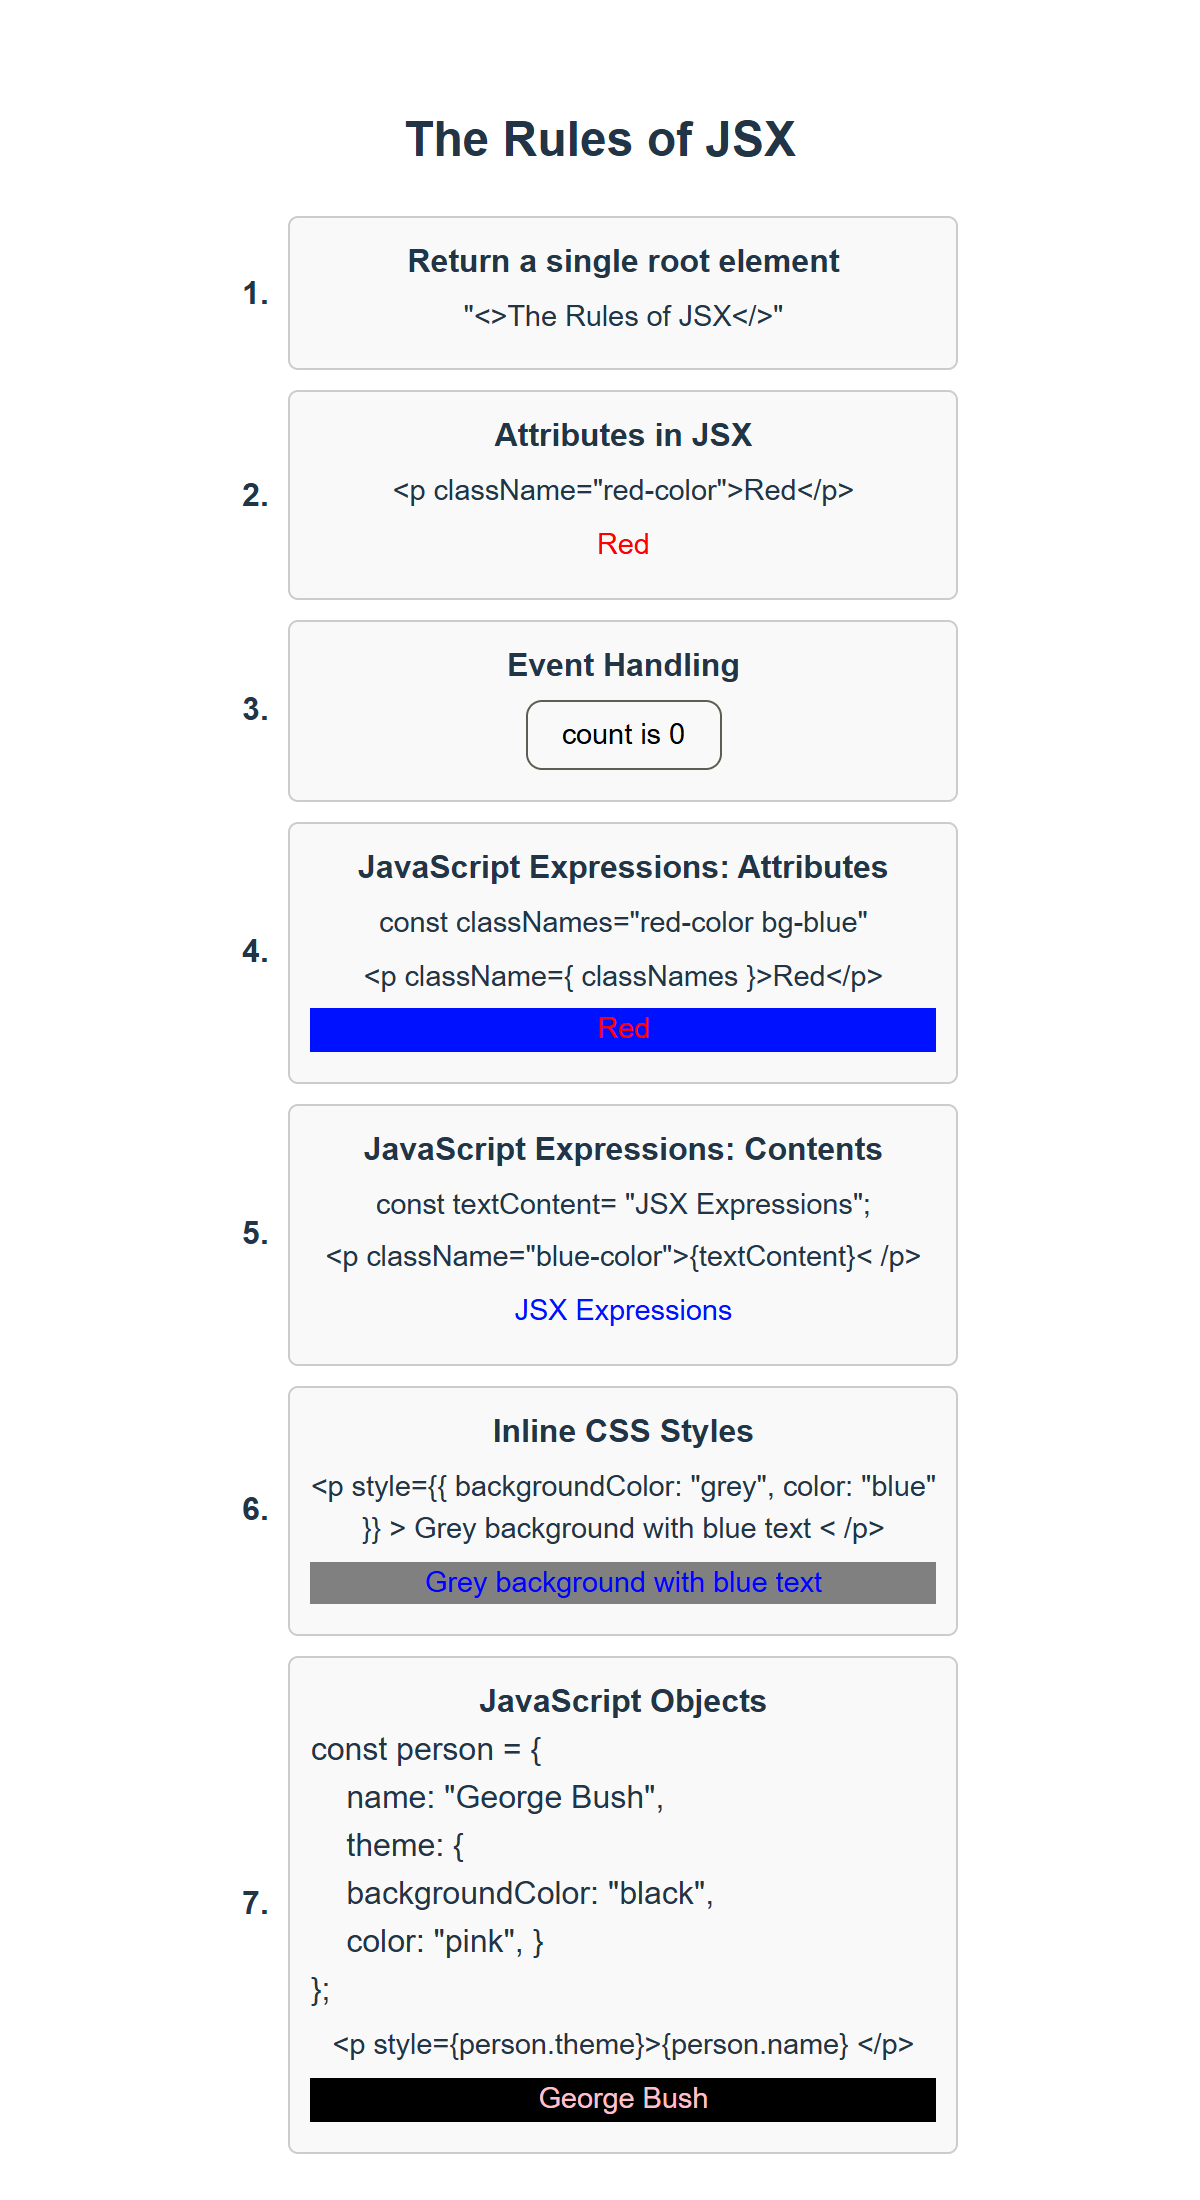
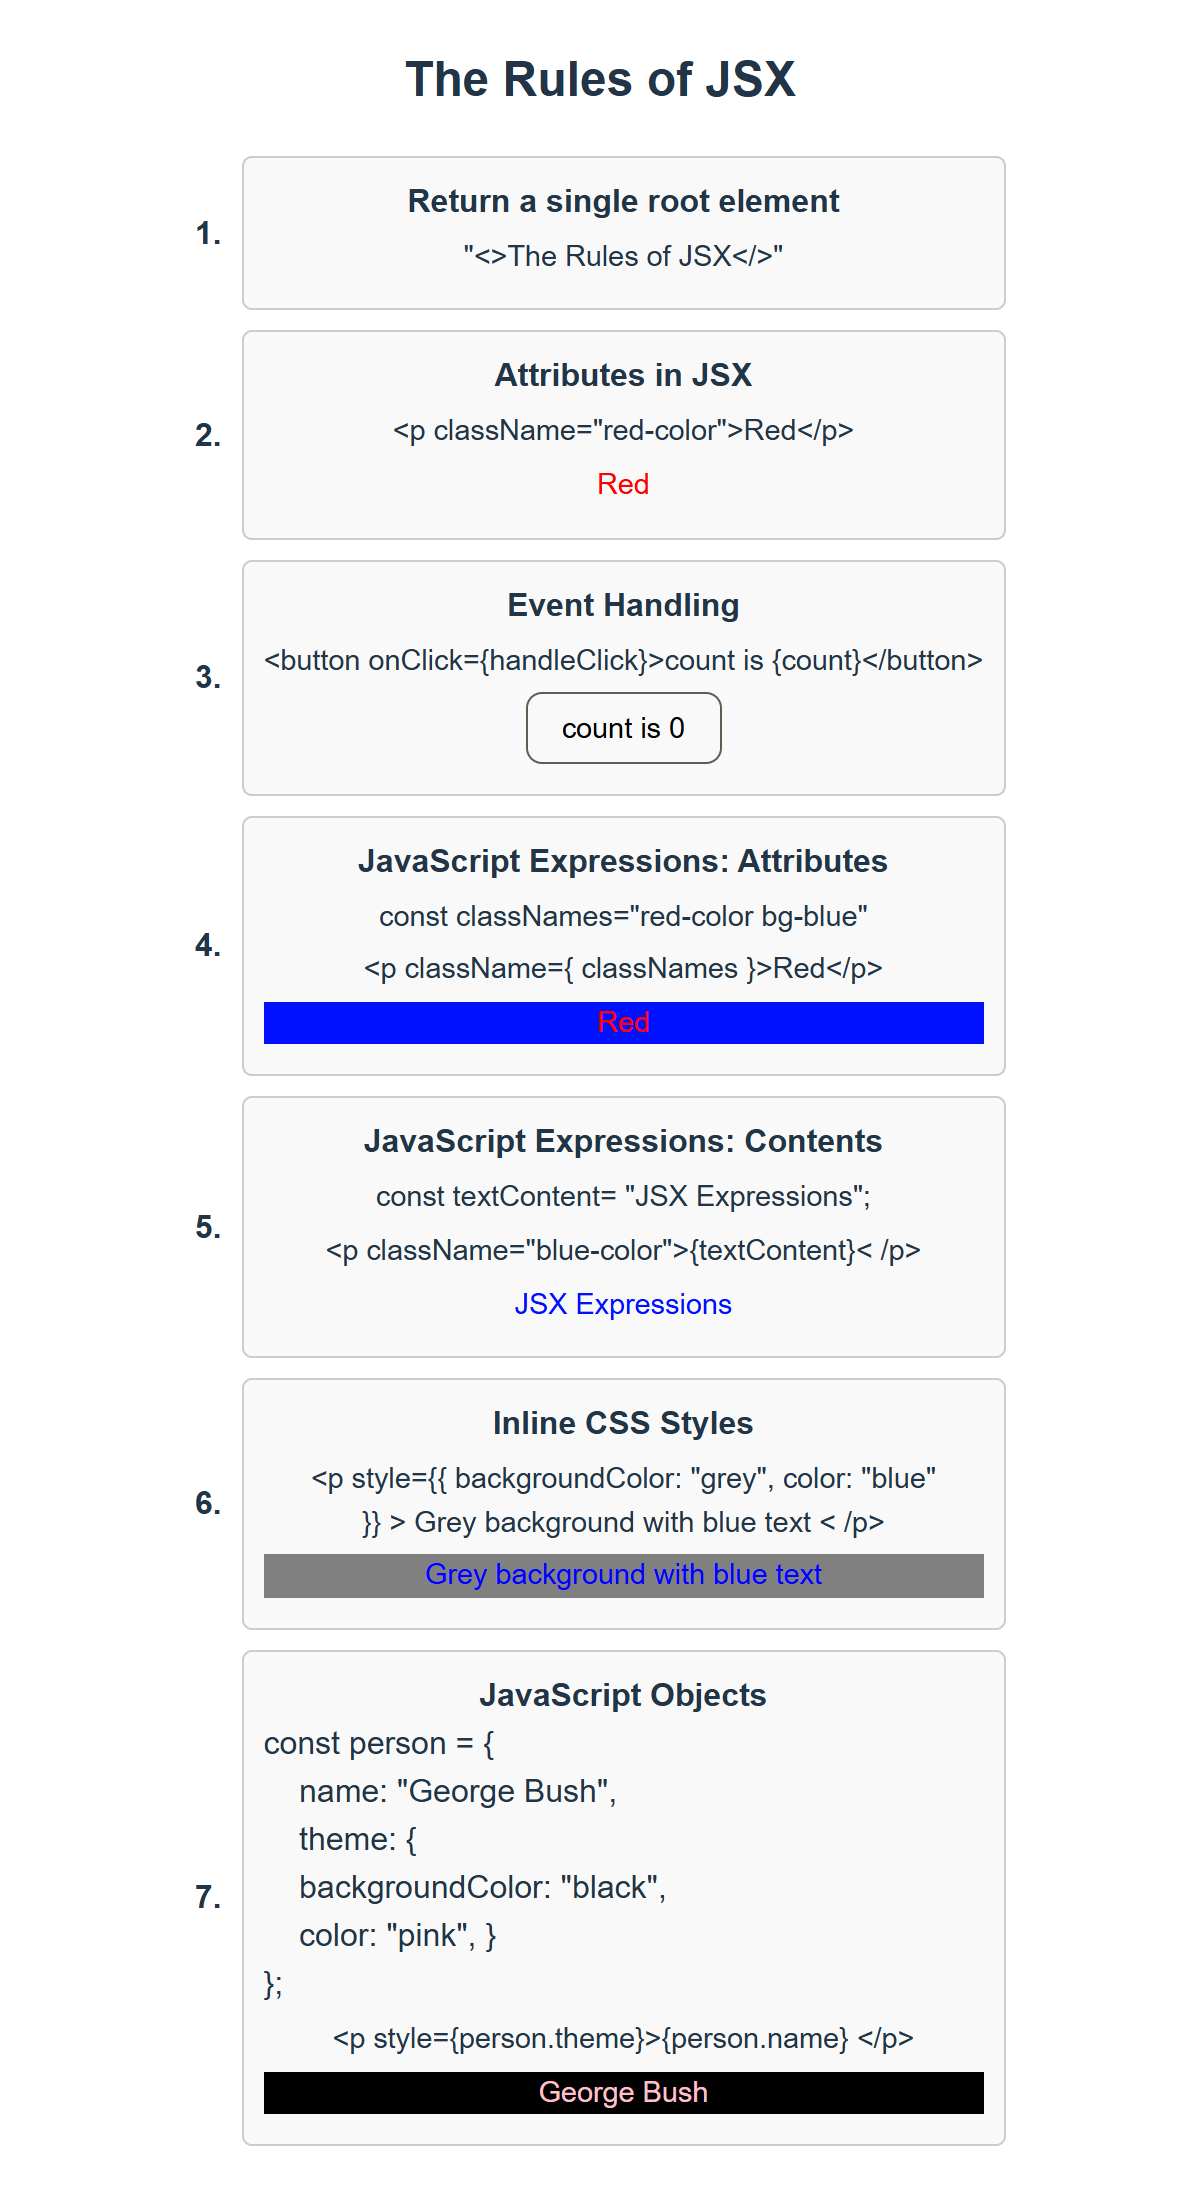
Add files via upload

diff --git a/docs/react-app-ts/tut02-writing-markup-with-jsx.rst b/docs/react-app-ts/tut02-writing-markup-with-jsx.rst
@@ -310,6 +310,10 @@ Create Project Contents
                     <div className="list-item-content">
                       <h3>Event Handling</h3>
                       <p>
+                        &lt;button onClick=&#123;handleClick&#125;&gt;count is
+                        &#123;count&#125;&lt;/button&gt;
+                      </p>
+                      <p>
                         <button onClick={handleClick}>count is {count}</button>
                       </p>
                     </div>
